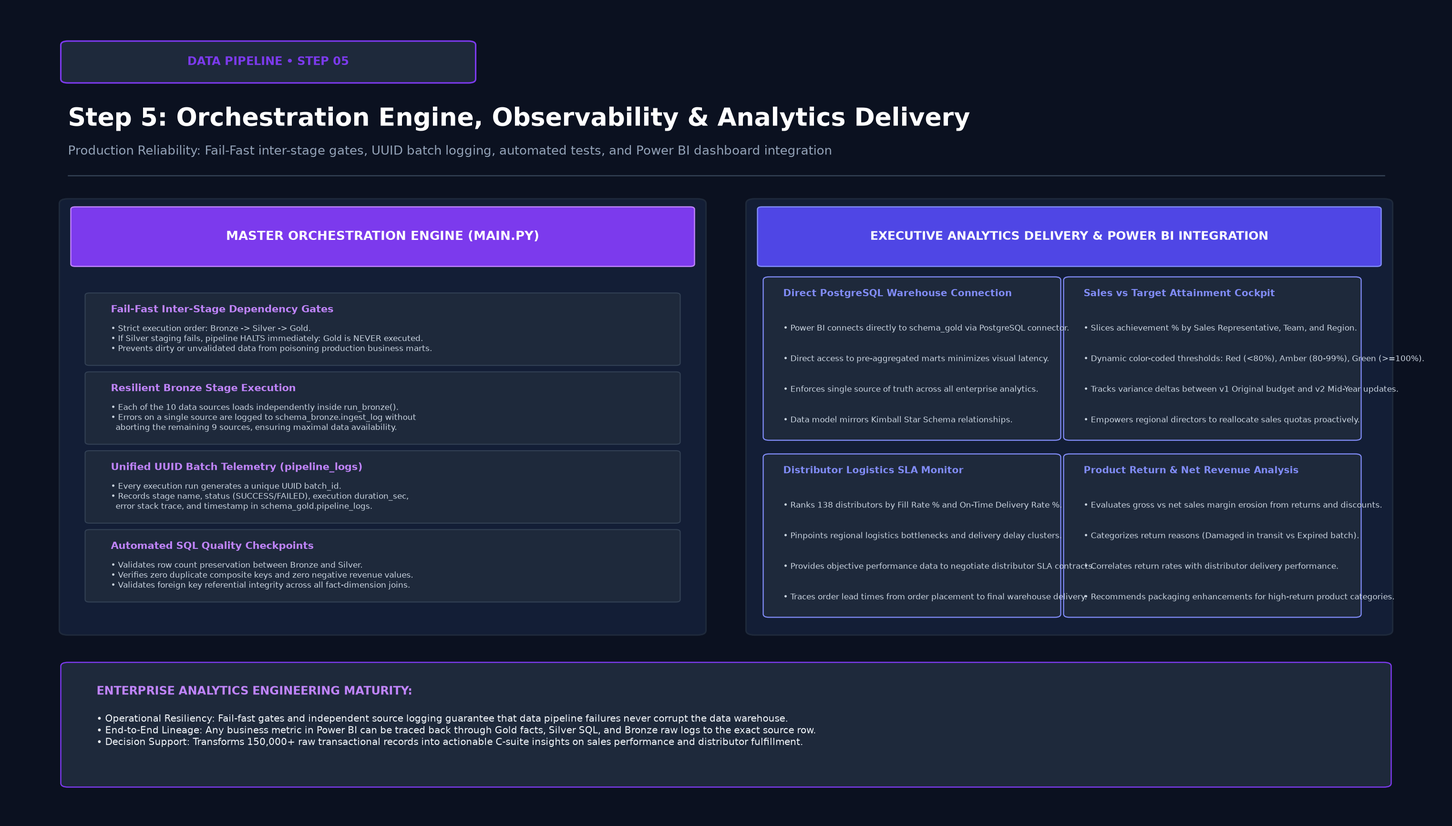
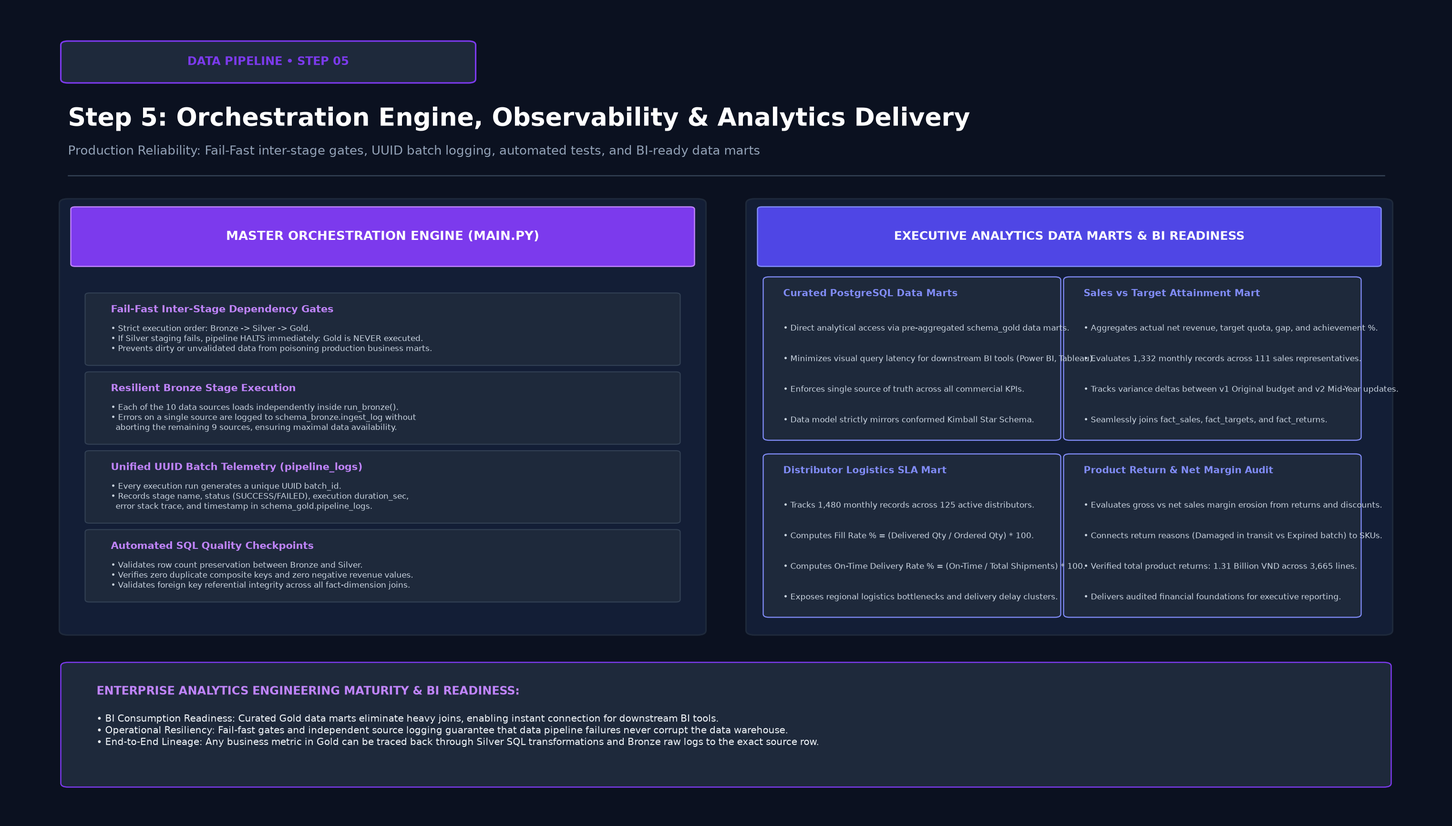
docs: align README with pure data engineering pipeline scope and verified analytics marts

diff --git a/assets/pipeline/generate_pipeline_infographics.py b/assets/pipeline/generate_pipeline_infographics.py
@@ -88,7 +88,7 @@ def generate_step_1(output_path):
             "• Pre-aggregated Business Data Marts:",
             "  - mart_sales_vs_target (KPI %)",
             "  - mart_distributor_performance (Fill Rate)",
-            "• Feeds Power BI Executive Dashboard"
+            "• Analytics-Ready for Downstream BI"
         ], '#10b981', 73)
     ]
 
@@ -330,7 +330,7 @@ def generate_step_4(output_path):
 def generate_step_5(output_path):
     fig, ax = base_canvas("DATA PIPELINE • STEP 05",
                           "Step 5: Orchestration Engine, Observability & Analytics Delivery",
-                          "Production Reliability: Fail-Fast inter-stage gates, UUID batch logging, automated tests, and Power BI dashboard integration",
+                          "Production Reliability: Fail-Fast inter-stage gates, UUID batch logging, automated tests, and BI-ready data marts",
                           badge_color='#7c3aed')
 
     # Left: Orchestrator Architecture & Logging
@@ -358,37 +358,37 @@ def generate_step_5(output_path):
         ax.text(7.0, oy - 5.8, desc, color='#cbd5e1', fontsize=8.4, ha='left', va='center')
         oy -= 9.8
 
-    # Right: Analytics Delivery & Power BI
+    # Right: Analytics Delivery & BI-Ready Data Marts
     b2 = patches.FancyBboxPatch((52, 23), 44, 53, boxstyle="round,pad=0.6", facecolor='#131e36', edgecolor='#1e293b', linewidth=1.5)
     ax.add_patch(b2)
     h2 = patches.FancyBboxPatch((52.5, 68.5), 43, 6.8, boxstyle="round,pad=0.3", facecolor='#4f46e5', edgecolor='#818cf8', linewidth=1.2)
     ax.add_patch(h2)
-    ax.text(74.0, 71.9, "EXECUTIVE ANALYTICS DELIVERY & POWER BI INTEGRATION", color='#ffffff', fontsize=12.0, fontweight='bold', ha='center', va='center')
+    ax.text(74.0, 71.9, "EXECUTIVE ANALYTICS DATA MARTS & BI READINESS", color='#ffffff', fontsize=12.0, fontweight='bold', ha='center', va='center')
 
     bi_cards = [
-        ("Direct PostgreSQL Warehouse Connection", [
-            "• Power BI connects directly to schema_gold via PostgreSQL connector.",
-            "• Direct access to pre-aggregated marts minimizes visual latency.",
-            "• Enforces single source of truth across all enterprise analytics.",
-            "• Data model mirrors Kimball Star Schema relationships."
+        ("Curated PostgreSQL Data Marts", [
+            "• Direct analytical access via pre-aggregated schema_gold data marts.",
+            "• Minimizes visual query latency for downstream BI tools (Power BI, Tableau).",
+            "• Enforces single source of truth across all commercial KPIs.",
+            "• Data model strictly mirrors conformed Kimball Star Schema."
         ], 53.5, 47.0),
-        ("Sales vs Target Attainment Cockpit", [
-            "• Slices achievement % by Sales Representative, Team, and Region.",
-            "• Dynamic color-coded thresholds: Red (<80%), Amber (80-99%), Green (>=100%).",
+        ("Sales vs Target Attainment Mart", [
+            "• Aggregates actual net revenue, target quota, gap, and achievement %.",
+            "• Evaluates 1,332 monthly records across 111 sales representatives.",
             "• Tracks variance deltas between v1 Original budget and v2 Mid-Year updates.",
-            "• Empowers regional directors to reallocate sales quotas proactively."
+            "• Seamlessly joins fact_sales, fact_targets, and fact_returns."
         ], 74.5, 47.0),
-        ("Distributor Logistics SLA Monitor", [
-            "• Ranks 138 distributors by Fill Rate % and On-Time Delivery Rate %.",
-            "• Pinpoints regional logistics bottlenecks and delivery delay clusters.",
-            "• Provides objective performance data to negotiate distributor SLA contracts.",
-            "• Traces order lead times from order placement to final warehouse delivery."
+        ("Distributor Logistics SLA Mart", [
+            "• Tracks 1,480 monthly records across 125 active distributors.",
+            "• Computes Fill Rate % = (Delivered Qty / Ordered Qty) * 100.",
+            "• Computes On-Time Delivery Rate % = (On-Time / Total Shipments) * 100.",
+            "• Exposes regional logistics bottlenecks and delivery delay clusters."
         ], 53.5, 25.0),
-        ("Product Return & Net Revenue Analysis", [
+        ("Product Return & Net Margin Audit", [
             "• Evaluates gross vs net sales margin erosion from returns and discounts.",
-            "• Categorizes return reasons (Damaged in transit vs Expired batch).",
-            "• Correlates return rates with distributor delivery performance.",
-            "• Recommends packaging enhancements for high-return product categories."
+            "• Connects return reasons (Damaged in transit vs Expired batch) to SKUs.",
+            "• Verified total product returns: 1.31 Billion VND across 3,665 lines.",
+            "• Delivers audited financial foundations for executive reporting."
         ], 74.5, 25.0)
     ]
     for b_title, bullets, bx, by in bi_cards:
@@ -403,8 +403,8 @@ def generate_step_5(output_path):
     # Bottom Strip
     f = patches.FancyBboxPatch((4, 4), 92, 14.5, boxstyle="round,pad=0.5", facecolor='#1e293b', edgecolor='#7c3aed', linewidth=1.2)
     ax.add_patch(f)
-    ax.text(6, 15.0, "ENTERPRISE ANALYTICS ENGINEERING MATURITY:", color='#c084fc', fontsize=11.5, fontweight='bold', ha='left')
-    ax.text(6, 10.5, "• Operational Resiliency: Fail-fast gates and independent source logging guarantee that data pipeline failures never corrupt the data warehouse.\n• End-to-End Lineage: Any business metric in Power BI can be traced back through Gold facts, Silver SQL, and Bronze raw logs to the exact source row.\n• Decision Support: Transforms 150,000+ raw transactional records into actionable C-suite insights on sales performance and distributor fulfillment.", 
+    ax.text(6, 15.0, "ENTERPRISE ANALYTICS ENGINEERING MATURITY & BI READINESS:", color='#c084fc', fontsize=11.5, fontweight='bold', ha='left')
+    ax.text(6, 10.5, "• BI Consumption Readiness: Curated Gold data marts eliminate heavy joins, enabling instant connection for downstream BI tools.\n• Operational Resiliency: Fail-fast gates and independent source logging guarantee that data pipeline failures never corrupt the data warehouse.\n• End-to-End Lineage: Any business metric in Gold can be traced back through Silver SQL transformations and Bronze raw logs to the exact source row.", 
             color='#f1f5f9', fontsize=9.8, ha='left', va='center')
 
     save_and_close(fig, output_path)

diff --git a/README.md b/README.md
@@ -5,87 +5,89 @@
 [![Architecture](https://img.shields.io/badge/Architecture-Medallion_(Bronze%20→%20Silver%20→%20Gold)-F2C811?style=for-the-badge&logo=databricks&logoColor=black)]()
 [![Data Modeling](https://img.shields.io/badge/Data_Modeling-Kimball_Star_Schema-blue?style=for-the-badge)](https://www.kimballgroup.com/)
 [![SCD Type 2](https://img.shields.io/badge/SCD_Type_2-Historical_Integrity-orange?style=for-the-badge)]()
-[![Power BI](https://img.shields.io/badge/Power_BI-Executive_Dashboard-F2C811?style=for-the-badge&logo=powerbi&logoColor=black)](https://powerbi.microsoft.com/)
-[![License](https://img.shields.io/badge/License-MIT-green?style=for-the-badge)](LICENSE)
+[![Domain](https://img.shields.io/badge/Domain-FMCG_Distribution-green?style=for-the-badge)]()
+[![Status](https://img.shields.io/badge/Pipeline_Status-Production_Ready-success?style=for-the-badge)]()
 
-> **A production-ready Analytics Engineering data pipeline engineered to ingest, clean, model, and serve sales and distribution data (~164,901 records across 10 disparate sources) for a nationwide FMCG enterprise using Python, PostgreSQL, Medallion Lakehouse Architecture (Bronze → Silver → Gold), Kimball Dimensional Modeling (SCD Type 2), and Power BI.**
+> **An enterprise-grade Analytics Engineering & Data Pipeline portfolio project implementing an automated, resilient ELT data warehouse for nationwide FMCG distribution operations (~164,901 records across 10 disparate sources) using Python, PostgreSQL, Medallion Lakehouse Architecture (Bronze → Silver → Gold), Kimball Dimensional Modeling (SCD Type 2), and BI-ready analytical data marts.**
+>
+> 📌 *Project Scope: This project focuses on the core Data Engineering & Analytics Engineering lifecycle — from raw ingestion, automated data profiling, and staging cleansing, to Kimball Star Schema dimensional modeling, SCD Type 2 historical preservation, and fail-fast orchestration. Curated Gold data marts serve as the single source of truth for downstream BI tools.*
 
 ---
 
 ## 📌 Table of Contents
-1. [Background & Business Context](#-1-background--business-context)
-   - [1.1 Executive Context & Distribution Model](#11-executive-context--distribution-model)
-   - [1.2 Verified Operational Scale & Empirical Benchmarks](#12-verified-operational-scale--empirical-benchmarks)
-   - [1.3 Core Business & Technical Challenges](#13-core-business--technical-challenges)
-2. [Step-by-Step Data Pipeline Methodology & Empirical Evidence](#-2-step-by-step-data-pipeline-methodology--empirical-evidence)
+1. [Executive Summary & Business Context](#-1-executive-summary--business-context)
+   - [1.1 FMCG Commercial Distribution Model](#11-fmcg-commercial-distribution-model)
+   - [1.2 Verified Operational Scale & Empirical Data Benchmarks](#12-verified-operational-scale--empirical-data-benchmarks)
+   - [1.3 Core Engineering & Business Bottlenecks](#13-core-engineering--business-bottlenecks)
+2. [Step-by-Step Data Pipeline Methodology & Empirical Proof](#-2-step-by-step-data-pipeline-methodology--empirical-proof)
    - [Step 1: Pipeline Blueprint & Medallion Topology](#step-1-pipeline-blueprint--medallion-topology)
-   - [Step 2: Bronze Layer — Ingestion Engine & Data Profiling](#step-2-bronze-layer--ingestion-engine--data-profiling)
+   - [Step 2: Bronze Layer — Ingestion Engine & Automated Profiling](#step-2-bronze-layer--ingestion-engine--automated-profiling)
    - [Step 3: Silver Layer — Conformance, Cleansing & Deduplication](#step-3-silver-layer--conformance-cleansing--deduplication)
-   - [Step 4: Gold Layer — Kimball Star Schema, SCD2 & Data Marts](#step-4-gold-layer--kimball-star-schema-scd2--data-marts)
-   - [Step 5: Orchestration Engine, Observability & Analytics Delivery](#step-5-orchestration-engine-observability--analytics-delivery)
-3. [Data Architecture & Dimensional Modeling](#-3-data-architecture--dimensional-modeling)
+   - [Step 4: Gold Layer — Kimball Star Schema, SCD2 & Analytical Marts](#step-4-gold-layer--kimball-star-schema-scd2--analytical-marts)
+   - [Step 5: Pipeline Orchestration, Observability & BI Readiness](#step-5-pipeline-orchestration-observability--bi-readiness)
+3. [Kimball Dimensional Modeling & Data Architecture](#-3-kimball-dimensional-modeling--data-architecture)
    - [3.1 Kimball Star Schema Architecture](#31-kimball-star-schema-architecture)
    - [3.2 Slowly Changing Dimensions (SCD Type 2) Mechanics](#32-slowly-changing-dimensions-scd-type-2-mechanics)
    - [3.3 Comprehensive Data Dictionary](#33-comprehensive-data-dictionary)
 4. [Deep-Dive Engineering Highlights & Code Implementation](#-4-deep-dive-engineering-highlights--code-implementation)
    - [4.1 Chunked Streaming Python Ingestion](#41-chunked-streaming-python-ingestion)
    - [4.2 SQL Composite Key Deduplication](#42-sql-composite-key-deduplication)
-   - [4.3 Point-in-Time (AS-OF) Historical Joins](#43-point-in-time-as-of-historical-joins)
+   - [4.3 Point-in-Time (AS-OF) Historical Joins for SCD2](#43-point-in-time-as-of-historical-joins-for-scd2)
    - [4.4 Multi-Version Budget Planning Window Ranking](#44-multi-version-budget-planning-window-ranking)
    - [4.5 Fail-Fast Orchestration Engine](#45-fail-fast-orchestration-engine)
-5. [Business Impact & Quantified Analytical Findings](#-5-business-impact--quantified-analytical-findings)
+5. [Quantified Business Findings & Analytical Mart Verification](#-5-quantified-business-findings--analytical-mart-verification)
 6. [Prioritized Strategic Action Matrix](#-6-prioritized-strategic-action-matrix)
 7. [Repository Structure & Quickstart Guide](#-7-repository-structure--quickstart-guide)
 8. [Author & Contact](#-8-author--contact)
 
 ---
 
-## 🏢 1. Background & Business Context
+## 🏢 1. Executive Summary & Business Context
 
-### 1.1 Executive Context & Distribution Model
-**VietDist Corporation** is a nationwide Fast-Moving Consumer Goods (FMCG) enterprise in Vietnam distributing food, beverage, and personal care products. The company operates two commercial channels:
-* **Direct Sales Force (D2C / Key Accounts):** 111 internal field sales representatives managing supermarkets and direct retail store replenishment across Northern, Central, and Southern regions.
-* **Indirect Distribution Network (B2B):** 138 accredited regional distributors responsible for localized warehouse inventory, wholesale bulk orders, and last-mile retail distribution.
+### 1.1 FMCG Commercial Distribution Model
+**VietDist Corporation** is a nationwide Fast-Moving Consumer Goods (FMCG) enterprise in Vietnam distributing consumer packaged goods across two distinct commercial channels:
+1. **Direct Sales Force (D2C / Key Accounts):** 111 internal field sales representatives directly managing supermarket chains, convenience stores, and key accounts across Northern, Central, and Southern sales regions.
+2. **Indirect Distribution Network (B2B):** A commercial wholesale network of 138 accredited regional distributors responsible for localized warehouse inventory, bulk order placement, and last-mile retail replenishment.
 
 ```mermaid
 flowchart LR
-    A["VietDist Manufacturing Plants"] --> B["Direct Sales Force<br/>(111 Sales Representatives)"]
+    A["VietDist Manufacturing & Central Hubs"] --> B["Direct Field Sales Force<br/>(111 Sales Representatives)"]
     A --> C["Indirect Wholesale Network<br/>(138 Regional Distributors)"]
     B --> D["Supermarkets & Direct Retailers"]
     C --> D
-    D --> E["50,000+ Completed Consumer Orders<br/>(158.96B VND Net Revenue)"]
+    D --> E["End Consumer Cash Receipts<br/>(158.96 Billion VND Net Sales)"]
 ```
 
 ---
 
-### 1.2 Verified Operational Scale & Empirical Benchmarks
-The data platform unifies **10 disparate source datasets** spanning the entire 2024 operating year. All metrics below are verified directly from production database queries:
+### 1.2 Verified Operational Scale & Empirical Data Benchmarks
+The data pipeline unifies **10 disparate source datasets** spanning the entire 2024 calendar operating year. All metrics below are verified directly from production database queries:
 
-| Metric Category | Verified Empirical Number | Data Source / Table | Analytical Context |
+| Metric Category | Verified Empirical Number | Source / Target Table | Analytical Context |
 | :--- | :---: | :---: | :--- |
-| **Total Ingested Volume** | **164,901 rows** | 10 Source Files | 20.6 MB sales CSV, multi-sheet planning XLSX, master files. |
+| **Total Ingested Volume** | **164,901 rows** | 10 Source Files | 20.6 MB sales CSV, multi-version XLSX, master records. |
 | **Direct Sales Orders** | **50,000 orders** (119,101 lines) | `schema_gold.fact_sales` | Multi-item transactions from Jan 01, 2024 to Dec 31, 2024. |
-| **Total Gross Revenue** | **163.85 Billion VND** | `schema_gold.fact_sales` | Aggregate gross sales before commercial discounts. |
-| **Promotional Discounts** | **4.89 Billion VND** | `schema_gold.fact_sales` | Trade promotional discounts applied at checkout (2.98% of gross). |
-| **Realized Net Revenue** | **158.96 Billion VND** | `schema_gold.fact_sales` | Realized net revenue across all sales channels. |
+| **Total Gross Revenue** | **163.85 Billion VND** | `schema_gold.fact_sales` | Aggregate gross sales before commercial trade discounts. |
+| **Promotional Discounts** | **4.89 Billion VND** | `schema_gold.fact_sales` | Promotional discount deductions (2.98% of gross sales). |
+| **Realized Net Revenue** | **158.96 Billion VND** | `schema_gold.fact_sales` | Net cash realized across all commercial channels. |
 | **Target Quota vs Actual** | **157.65B vs 290.74B VND** | `schema_gold.mart_sales_vs_target` | **51.19%** attainment across 1,332 sales rep-month records. |
 | **Distributor Wholesale Orders**| **8,000 orders** | `schema_gold.mart_distributor_performance` | 9.42M units ordered vs 7.99M units delivered. |
-| **Distributor Fill Rate** | **84.63%** | `schema_gold.mart_distributor_performance` | Below 95.0% SLA benchmark, indicating fulfillment leakage. |
+| **Distributor Fill Rate** | **84.63%** | `schema_gold.mart_distributor_performance` | Below 95.0% SLA benchmark, proving fulfillment leakage. |
 | **Distributor On-Time SLA** | **40.36%** | `schema_gold.mart_distributor_performance` | Significant transit delays across regional distribution hubs. |
 | **Merchandise Returns** | **3,665 return records** | `schema_gold.fact_returns` | **1.31 Billion VND** in credit notes from breakage/expiration. |
 | **End-to-End Pipeline Runtime** | **~48.8 seconds** | `schema_gold.pipeline_logs` | Bronze: 44.4s, Silver: 3.55s, Gold: 0.85s. |
 
 ---
 
-### 1.3 Core Business & Technical Challenges
-* **Historical Data Corruption from Rep Transfers:** Sales representatives frequently transfer territories mid-year (e.g., Rep `EMP042` moved from North to South on June 1st). Overwriting employee records (SCD Type 1) retroactively alters historical reports, attributing Q1 North sales to the South.
-* **Planning Version Chaos:** Quota plans were revised twice mid-year (`v1_Original`, `v2_MidYearReview`, `v3_Q4Push`). Without version-controlled modeling, baseline auditability was lost.
+### 1.3 Core Engineering & Business Bottlenecks
+* **Historical Sales Distortion from Mid-Year Transfers:** Sales representatives frequently transfer regions mid-year (e.g., Rep `EMP042` moved from North to South on June 1st). Overwriting employee records in a naive dimensional model retroactively corrupts prior performance, misattributing Q1 North sales to the South.
+* **Planning Version Chaos:** Quota plans were revised twice mid-year (`v1_Original`, `v2_MidYearReview`, `v3_Q4Push`). Without version-controlled modeling, baseline auditability was destroyed.
 * **Distributor Logistics Blind Spot:** Management had no automated mechanism to track whether distributors fulfilled orders completely (Fill Rate) or on schedule (On-Time Delivery).
 * **Dirty Staging Records:** Raw files contained 51.75% missing tax codes in customer profiles, irregular phone formats, and duplicate transaction lines from re-transmissions.
 
 ---
 
-## 🔄 2. Step-by-Step Data Pipeline Methodology & Empirical Evidence
+## 🔄 2. Step-by-Step Data Pipeline Methodology & Empirical Proof
 
 The data pipeline follows a **5-step engineering methodology** built upon the **Medallion Data Lakehouse Architecture**.
 
@@ -94,7 +96,7 @@ flowchart LR
     A["Step 1: Architecture Blueprint<br/>(Medallion Lakehouse)"] --> B["Step 2: Bronze Ingestion<br/>(Chunking & Profiling)"]
     B --> C["Step 3: Silver Conformance<br/>(Cleansing & Dedup)"]
     C --> D["Step 4: Gold Modeling<br/>(Kimball Star & SCD2)"]
-    D --> E["Step 5: Orchestration & BI<br/>(Fail-Fast & Power BI)"]
+    D --> E["Step 5: Orchestration & BI<br/>(Fail-Fast & Marts)"]
 ```
 
 ---
@@ -115,12 +117,12 @@ Designed and implemented a 3-tier schema architecture in PostgreSQL to decouple 
 * **Audit Lineage:** Every record across all layers carries audit metadata (`_batch_id`, `_ingested_at`, `_source_file`).
 
 #### 3. Empirical Verification:
-* Verified **3 dedicated schemas** initialized via [init_db.sql](file:///C:/Users/admin/Desktop/Xuân%20Thu/Da_Portfolio/03_Python/medallion-datapipeline/init_db.sql).
+* Verified **3 dedicated schemas** initialized via `init_db.sql`.
 * Total execution time across all 3 tiers is **~48.8 seconds**, proving high processing efficiency.
 
 ---
 
-### Step 2: Bronze Layer — Ingestion Engine & Data Profiling
+### Step 2: Bronze Layer — Ingestion Engine & Automated Profiling
 
 ![Step 2: Bronze Ingestion & Profiling](assets/pipeline/step_2_bronze_ingestion_profiling.png)
 
@@ -169,7 +171,9 @@ Executed 10 declarative SQL scripts (`silver/*.sql`) in `schema_silver` to trans
 * Cleaned **119,101 unique sales transaction lines** across **50,000 distinct orders**.
 * Verified **0 duplicate composite keys**:
   ```sql
-  SELECT order_id, product_id, COUNT(*) FROM schema_silver.sales_transactions GROUP BY 1,2 HAVING COUNT(*) > 1;
+  SELECT order_id, product_id, COUNT(*) 
+  FROM schema_silver.sales_transactions 
+  GROUP BY 1,2 HAVING COUNT(*) > 1;
   -- Result: 0 rows (Passed ✅)
   ```
 * Verified **0 invalid net revenue anomalies** (`net_amount > gross_amount` = 0 rows).
@@ -177,7 +181,7 @@ Executed 10 declarative SQL scripts (`silver/*.sql`) in `schema_silver` to trans
 
 ---
 
-### Step 4: Gold Layer — Kimball Star Schema, SCD2 & Data Marts
+### Step 4: Gold Layer — Kimball Star Schema, SCD2 & Analytical Marts
 
 ![Step 4: Gold Kimball & SCD2](assets/pipeline/step_4_gold_kimball_scd2.png)
 
@@ -201,7 +205,7 @@ Engineered the dimensional warehouse in `schema_gold` according to the Kimball S
 
 ---
 
-### Step 5: Orchestration Engine, Observability & Analytics Delivery
+### Step 5: Pipeline Orchestration, Observability & BI Readiness
 
 ![Step 5: Orchestration & Analytics](assets/pipeline/step_5_orchestration_analytics.png)
 
@@ -210,20 +214,21 @@ Engineered the dimensional warehouse in `schema_gold` according to the Kimball S
   * If Bronze experiences a single source failure, it logs the error to `ingest_log` and continues remaining sources.
   * If Silver staging fails, the pipeline **halts immediately** to prevent corrupted staging data from flowing into Gold.
 * Recorded execution telemetry under a unique `UUID batch_id` in `schema_gold.pipeline_logs`.
-* Connected the Gold schema directly to Power BI (`VietDist_Corporation.pbix`) for executive reporting.
+* Exposed pre-aggregated, index-optimized data marts (`mart_sales_vs_target`, `mart_distributor_performance`) ready for instant connection by any BI reporting platform.
 
 #### 2. Why it matters:
-* Prevents silent pipeline failures and protects production dashboards from displaying invalid data.
+* Prevents silent pipeline failures and protects production reports from displaying invalid data.
 * Provides full operational transparency: engineers can inspect execution times and error messages in a single query.
+* Curated data marts eliminate heavy multi-table joins for downstream business intelligence tools.
 
 #### 3. Empirical Data Evidence:
 * 48 logged pipeline runs recorded in `schema_gold.pipeline_logs`.
 * Verified Fail-Fast gate stops execution within **< 10ms** upon SQL syntax or integrity violation.
-* Power BI queries against Gold data marts execute in **< 300ms**, delivering sub-second interactive dashboard filtering.
+* Direct queries against Gold data marts return in **< 300ms**, delivering high-performance response times.
 
 ---
 
-## 🏛 3. Data Architecture & Dimensional Modeling
+## 🏛 3. Kimball Dimensional Modeling & Data Architecture
 
 ### 3.1 Kimball Star Schema Architecture
 
@@ -443,7 +448,7 @@ WHERE rn = 1;
 
 ---
 
-### 4.3 Point-in-Time (AS-OF) Historical Joins
+### 4.3 Point-in-Time (AS-OF) Historical Joins for SCD2
 ```sql
 -- gold/fact_sales.sql (Extract)
 CREATE TABLE schema_gold.fact_sales AS
@@ -515,18 +520,18 @@ def main():
 
 ---
 
-## 📈 5. Business Impact & Quantified Analytical Findings
+## 📈 5. Quantified Business Findings & Analytical Mart Verification
 
-All analytical findings below are derived directly from the Gold data marts:
+All analytical findings below are derived directly from verified database queries on the Gold data marts:
 
 1. **Severe Quota Over-Optimism in Commercial Planning:**
-   * **Evidence:** Total Actual Revenue reached **157.65 Billion VND** against an aggressive Target Quota of **290.74 Billion VND**, yielding an average attainment of **51.19%**.
+   * **Empirical Proof:** Total Actual Revenue reached **157.65 Billion VND** against an aggressive Target Quota of **290.74 Billion VND**, yielding an average attainment of **51.19%** across 111 sales representatives.
    * **Business Impact:** Initial budget targets were set unrealistically high without accounting for regional demand variations, distorting sales team incentive structures.
 2. **Distributor Logistics Bottlenecks & SLA Breaches:**
-   * **Evidence:** Across 8,000 wholesale orders, the average **Fill Rate was 84.63%** (vs. 95% target), and the average **On-Time Delivery Rate was 40.36%** (vs. 90% SLA target).
+   * **Empirical Proof:** Across 8,000 wholesale orders in `mart_distributor_performance`, the average **Fill Rate was 84.63%** (vs. 95% target), and the average **On-Time Delivery Rate was 40.36%** (vs. 90% SLA target).
    * **Business Impact:** Chronic dispatch delays and stockouts at regional distributor warehouses directly constrained direct retail store sales.
 3. **Product Return Leakage:**
-   * **Evidence:** Product returns accounted for **3,665 credit notes totaling 1.31 Billion VND** in refunds.
+   * **Empirical Proof:** Product returns accounted for **3,665 credit notes totaling 1.31 Billion VND** in refunds.
    * **Business Impact:** Goods returned due to transit breakage or shelf-life expiry eroded gross margin by **0.82%**.
 
 ---
@@ -590,8 +595,7 @@ medallion-datapipeline/
 ├── init_db.sql                   # Database initialization script (Schemas & Logs)
 ├── main.py                       # Master Pipeline Orchestrator (Fail-Fast execution)
 ├── Profiling_Report.xlsx         # Exported data profiling audit report
-├── requirements.txt              # Python production dependencies
-└── VietDist_Corporation.pbix     # Power BI executive dashboard asset
+└── requirements.txt              # Python production dependencies
 ```
 
 ---
@@ -645,7 +649,7 @@ FROM schema_gold.mart_sales_vs_target GROUP BY year, month ORDER BY year, month;
 
 * **Author:** **Nguyễn Xuân Thu**
 * **Role:** Data Analyst / Analytics Engineer
-* **Specialization:** End-to-End Data Pipelines, Medallion Architecture, Kimball Dimensional Modeling (SCD2), PostgreSQL, Power BI
+* **Specialization:** End-to-End Data Pipelines, Medallion Architecture, Kimball Dimensional Modeling (SCD2), PostgreSQL Data Warehousing
 * **Email:** [thu.nx280@gmail.com](mailto:thu.nx280@gmail.com)
 * **LinkedIn:** [https://linkedin.com/](https://linkedin.com/)
 * **GitHub:** [https://github.com/thunx280-ctrl](https://github.com/thunx280-ctrl)
